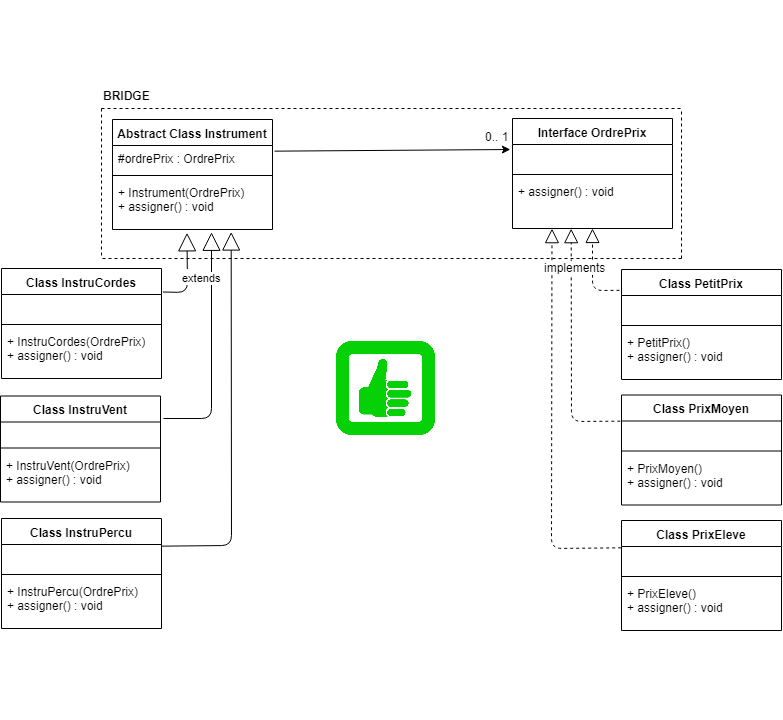
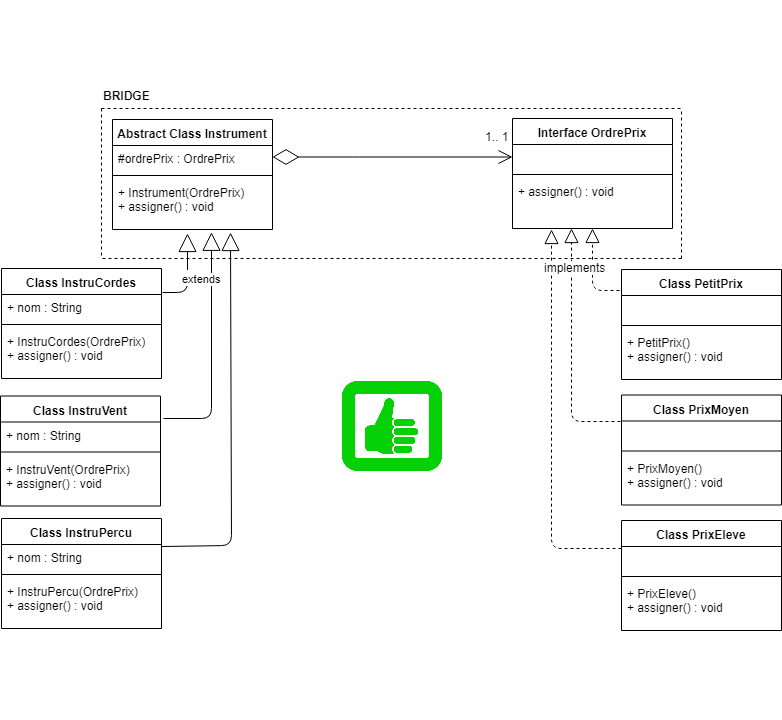
maj diagrammes DP BRIDGE

diff --git a/bin/com/inti/design/pattern/structure/bridge/tuto.bridge/src/tuto/bridge/abstraction/InstruCordes.java b/bin/com/inti/design/pattern/structure/bridge/tuto.bridge/src/tuto/bridge/abstraction/InstruCordes.java
@@ -4,7 +4,7 @@ import tuto.bridge.implementation.OrdrePrix;
 
 public class InstruCordes extends Instrument {
 
-	private String nom;
+	public String nom;
 
 	public InstruCordes(OrdrePrix ordrePrix, String nom) {
 		super(ordrePrix);

diff --git a/src/com/inti/design/pattern/structure/bridge/tuto.bridge/src/tuto/bridge/abstraction/InstruCordes.java b/src/com/inti/design/pattern/structure/bridge/tuto.bridge/src/tuto/bridge/abstraction/InstruCordes.java
@@ -4,7 +4,7 @@ import tuto.bridge.implementation.OrdrePrix;
 
 public class InstruCordes extends Instrument {
 
-	private String nom;
+	public String nom;
 
 	public InstruCordes(OrdrePrix ordrePrix, String nom) {
 		super(ordrePrix);

diff --git a/bin/com/inti/design/pattern/structure/bridge/tuto.bridge/src/tuto/bridge/abstraction/InstruPercu.java b/bin/com/inti/design/pattern/structure/bridge/tuto.bridge/src/tuto/bridge/abstraction/InstruPercu.java
@@ -4,7 +4,7 @@ import tuto.bridge.implementation.OrdrePrix;
 
 public class InstruPercu extends Instrument {
 
-	private String nom;
+	public String nom;
 
 	public InstruPercu(OrdrePrix ordrePrix, String nom) {
 		super(ordrePrix);

diff --git a/src/com/inti/design/pattern/structure/bridge/tuto.bridge/src/tuto/bridge/abstraction/InstruPercu.java b/src/com/inti/design/pattern/structure/bridge/tuto.bridge/src/tuto/bridge/abstraction/InstruPercu.java
@@ -4,7 +4,7 @@ import tuto.bridge.implementation.OrdrePrix;
 
 public class InstruPercu extends Instrument {
 
-	private String nom;
+	public String nom;
 
 	public InstruPercu(OrdrePrix ordrePrix, String nom) {
 		super(ordrePrix);

diff --git a/bin/com/inti/design/pattern/structure/bridge/tuto.bridge/src/tuto/bridge/abstraction/InstruVent.java b/bin/com/inti/design/pattern/structure/bridge/tuto.bridge/src/tuto/bridge/abstraction/InstruVent.java
@@ -4,7 +4,7 @@ import tuto.bridge.implementation.OrdrePrix;
 
 public class InstruVent extends Instrument {
 
-	private String nom;
+	public String nom;
 
 	public InstruVent(OrdrePrix ordrePrix, String nom) {
 		super(ordrePrix);

diff --git a/src/com/inti/design/pattern/structure/bridge/tuto.bridge/src/tuto/bridge/abstraction/InstruVent.java b/src/com/inti/design/pattern/structure/bridge/tuto.bridge/src/tuto/bridge/abstraction/InstruVent.java
@@ -4,7 +4,7 @@ import tuto.bridge.implementation.OrdrePrix;
 
 public class InstruVent extends Instrument {
 
-	private String nom;
+	public String nom;
 
 	public InstruVent(OrdrePrix ordrePrix, String nom) {
 		super(ordrePrix);

diff --git a/bin/com/inti/design/pattern/structure/bridge/README.md b/bin/com/inti/design/pattern/structure/bridge/README.md
@@ -124,7 +124,7 @@ Dans un autre package, `tuto.bridge.abstraction` (qui nous permet de souligner l
 
 	public class InstruCordes extends Instrument {
 
-	private String nom;
+	public String nom;
 
 	public InstruCordes(OrdrePrix ordrePrix, String nom) {
 		super(ordrePrix);
@@ -146,7 +146,7 @@ Dans un autre package, `tuto.bridge.abstraction` (qui nous permet de souligner l
 
 	public class InstruPercu extends Instrument {
 
-	private String nom;
+	public String nom;
 
 	public InstruPercu(OrdrePrix ordrePrix, String nom) {
 		super(ordrePrix);
@@ -168,7 +168,7 @@ Dans un autre package, `tuto.bridge.abstraction` (qui nous permet de souligner l
 
 	public class InstruVent extends Instrument {
 
-	private String nom;
+	public String nom;
 
 	public InstruVent(OrdrePrix ordrePrix, String nom) {
 		super(ordrePrix);

diff --git a/src/com/inti/design/pattern/structure/bridge/README.md b/src/com/inti/design/pattern/structure/bridge/README.md
@@ -124,7 +124,7 @@ Dans un autre package, `tuto.bridge.abstraction` (qui nous permet de souligner l
 
 	public class InstruCordes extends Instrument {
 
-	private String nom;
+	public String nom;
 
 	public InstruCordes(OrdrePrix ordrePrix, String nom) {
 		super(ordrePrix);
@@ -146,7 +146,7 @@ Dans un autre package, `tuto.bridge.abstraction` (qui nous permet de souligner l
 
 	public class InstruPercu extends Instrument {
 
-	private String nom;
+	public String nom;
 
 	public InstruPercu(OrdrePrix ordrePrix, String nom) {
 		super(ordrePrix);
@@ -168,7 +168,7 @@ Dans un autre package, `tuto.bridge.abstraction` (qui nous permet de souligner l
 
 	public class InstruVent extends Instrument {
 
-	private String nom;
+	public String nom;
 
 	public InstruVent(OrdrePrix ordrePrix, String nom) {
 		super(ordrePrix);
